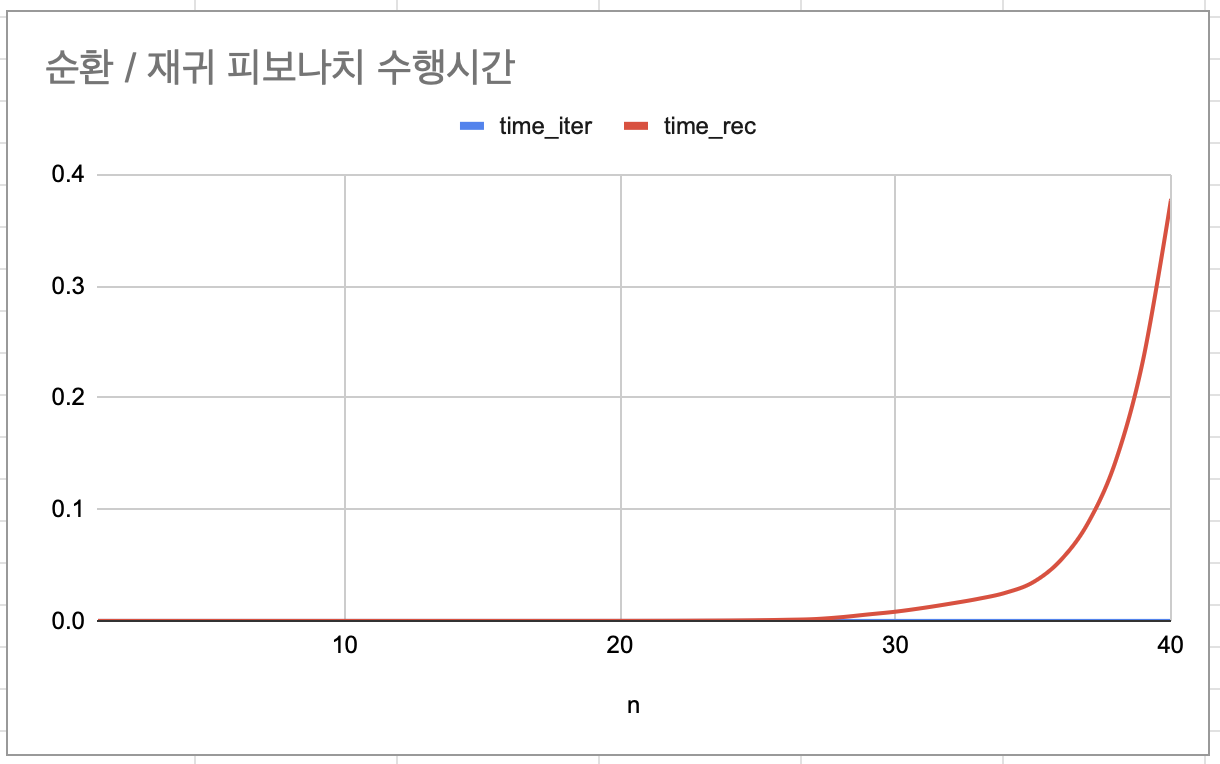
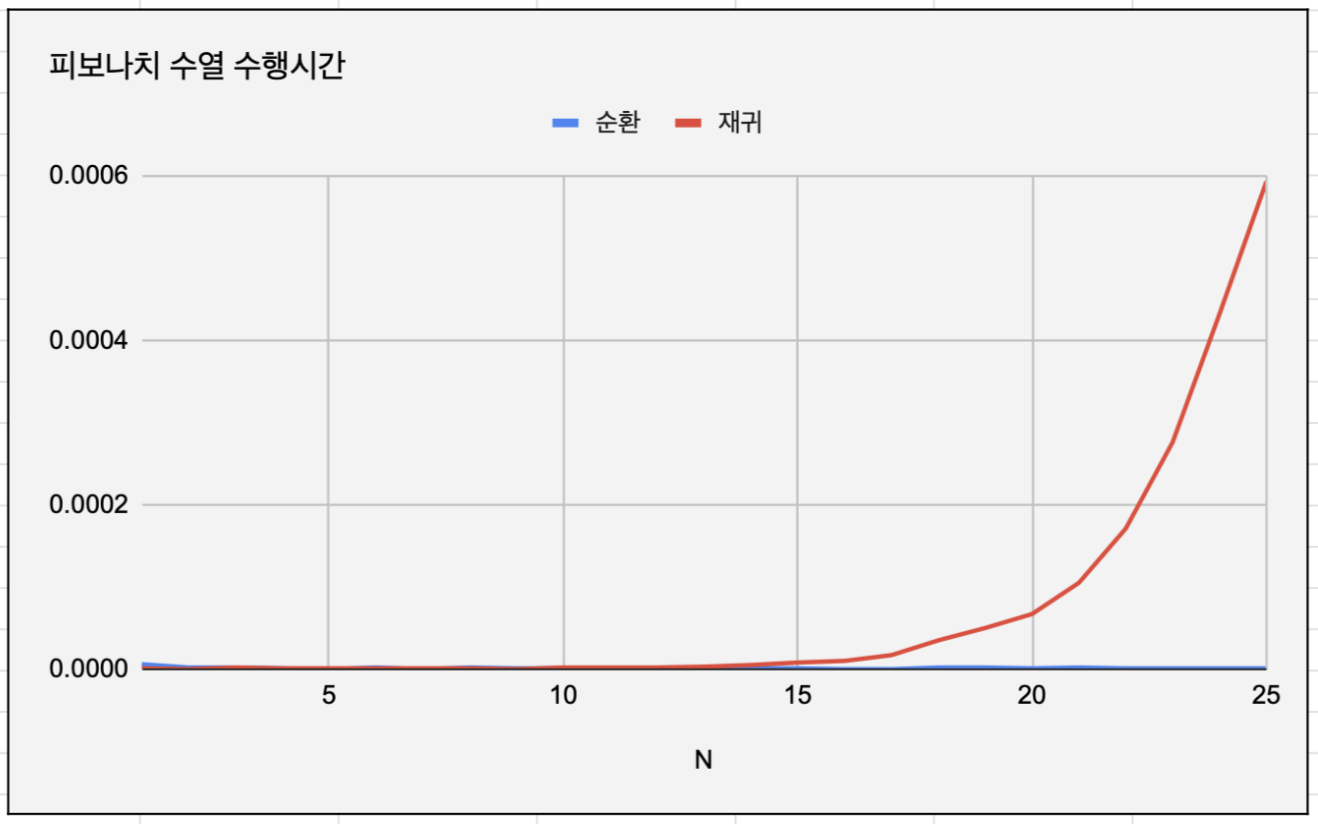
과제(8) 2차

diff --git a/fib/fib.c b/fib/fib.c
@@ -24,7 +24,7 @@ int main() {
     printf("정수(N)을 입력하세요: ");
     scanf("%d", &N);
 
-    printf("n | fib| iter_time | rec_time\n");
+    printf("N | fib_순환| fib_재귀| 순환_수행| 재귀_수행\n");
 
     for (int i = 1; i <= N; i++) {
 
@@ -40,8 +40,8 @@ int main() {
         clock_t end_rec = clock();
         double time_rec = (double)(end_rec - start_rec) / CLOCKS_PER_SEC;
 
-        printf("%d | %lld | %.6f | %.6f\n", i, fib_iter, time_iter, time_rec);
-    }
+        printf("%d |    %lld    |    %lld    | %.6f | %.6f\n", i, fib_iter, fib_rec, time_iter, time_rec);
+    } 
 
     return 0;
 }

diff --git a/fib/fib.md b/fib/fib.md
@@ -1,5 +1,5 @@
 ## 과제(8)
-- 피보나치 수열 순환적 / 재귀적
+- 피보나치 수열 순환적 방법 / 재귀적 방법
 
 ## 정의 
 피보나치 수열을 순환적 방법과 재귀적 방법으로 계산하고, 입력 크기 (N)을 증가시키면서 각 방법의 수행시간을 측정하여 비교한다.
@@ -14,25 +14,69 @@
 ### 2. 재귀적 방법
 - 함수가 자기 자신을 호출하는 방식으로 피보나치 수열을 계산 (단, 동일한 값이 여러 번 계산되는 중복 호출 발생)
 
-### 방법
+```
 입력 값(N)을 1부터 증가시키며 수행시간을 측정
 : clock() 함수를 사용하여 각 방법의 실행 시간을 측정하였다.
+```
 
-## 5. 그래프 이미지
+## 실행 결과 (코드는 .c 파일 제출)
+N 입력 값: 30
+```
+N | fib_순환 | fib_재귀 |  순환_수행  | 재귀_수행
+1 |    1    |    1    | 0.000007 | 0.000001
+2 |    1    |    1    | 0.000001 | 0.000000
+3 |    2    |    2    | 0.000000 | 0.000001
+4 |    3    |    3    | 0.000002 | 0.000001
+5 |    5    |    5    | 0.000000 | 0.000001
+6 |    8    |    8    | 0.000000 | 0.000000
+7 |    13   |    13   | 0.000001 | 0.000000
+8 |    21   |    21   | 0.000001 | 0.000002
+9 |    34   |    34   | 0.000002 | 0.000002
+10 |    55  |    55   | 0.000001 | 0.000002
+11 |    89  |    89   | 0.000001 | 0.000002
+12 |    144   |    144  | 0.000001 | 0.000003
+13 |    233   |    233  | 0.000002 | 0.000004
+14 |    377   |    377  | 0.000000 | 0.000006
+15 |    610   |    610  | 0.000001 | 0.000008
+16 |    987   |    987  | 0.000002 | 0.000014
+17 |    1597   |    1597  | 0.000001 | 0.000022
+18 |    2584   |    2584  | 0.000000 | 0.000034
+19 |    4181   |    4181  | 0.000001 | 0.000054
+20 |    6765   |    6765  | 0.000000 | 0.000085
+21 |    10946  |    10946  | 0.000002 | 0.000137
+22 |    17711  |    17711  | 0.000001 | 0.000217
+23 |    28657  |    28657  | 0.000001 | 0.000351
+24 |    46368  |    46368  | 0.000002 | 0.000567
+25 |    75025  |    75025  | 0.000000 | 0.000717
+26 |    121393  |    121393  | 0.000000 | 0.001160
+27 |    196418  |    196418  | 0.000001 | 0.001600
+28 |    317811  |    317811  | 0.000000 | 0.003923
+29 |    514229  |    514229  | 0.000001 | 0.005682
+30 |    832040  |    832040  | 0.000002 | 0.008026
+
+```
+
+## 그래프 이미지
 <img src="graph.png" width="600">
+순환적 방법은 수행 시간이 매우 작아 그래프에서 거의 0에 가깝게 나타나지만, 
+재귀적 방법은 입력 값이 증가함에 따라 급격히 증가하여 두 방법 간의 성능 차이를 확인할 수 있다.
 
 ## 분석 및 비교
-1. 순환적 방법은 반복문을 사용하기 때문에 입력 크기(N)이 중가함에 따라 수행 시간이 선형적으로 증가하는 모습을 볼 수 있다.
+1. 순환적 방법은 반복문을 사용하기 때문에 입력 크기(N)이 증가함에 따라 수행 시간이 선형적으로 증가하는 모습을 볼 수 있다.
 
 2. 재귀적 방법은 동일한 값을 여러 번 계산하는 중복 호출이 발생하여 수행 시간이 지수적으로 증가하는 모습을 볼 수 있다. 
 -> N이 커질수록 재귀적 방법의 실행시간이 급격히 증가하는 것을 확인 
 
 ```
-순환적 방법은 반복문을 이용하여 이전 두 값을 기반으로 다음 값을 한 번만 계산하는 방식이다. 불필요한 연산이 발생하지 않으며, 입력 크기 (N)이 증가함에 따라 수행시간이 완만하게 증가하는 경향을 보였다. 이는 시간 복잡도가 O(n)이기 때문이며, 효율적인 것을 알 수 있다.
+순환적 방법은 반복문을 사용하여 이전 두 값을 기반으로 다음 값을 한 번만 계산하는 방식이다. 
+따라서 불필요한 중복 연산이 발생하지 않으며, 입력 크기 (N)이 증가함에 따라 수행시간이 선형적으로 증가하는 경향을 보였다. 
+이는 시간 복잡도가 O(n)이기 때문이며, 효율적인 것을 알 수 있다.
 
-반면 재귀적 방법은 함수가 자기 자신을 호출하는 구조로, 동일한 값을 여러 번 계산하는 중복 호출이 발생하여 이미 계산된 값이 다시 호출되는 중복연산이 발생한다. 이러한 중복 호출로 인해 전체 함수 호출 횟수가 급격히 증가하며, 입력 값(N)이 커질수록 수행 시간이 빠르게 증가하는 모습을 확인할 수 있었다. 이는 재귀적 방법의 시간복잡도가 O(2^n)이기 때문이며, 비효율적인 것을 알 수 있다. 
+재귀적 방법은 함수가 자기 자신을 호출하는 구조로, 동일한 값을 여러 번 계산하는 중복 호출이 발생한다. 
+이로 인해 전체 함수 호출 횟수가 급격히 증가하며, 입력 값(N)이 커질수록 수행 시간이 지수적으로 증가하는 모습을 보인다. 
+이는 시간 복잡도 O(2ⁿ)에 해당하며, 비효율적인 것을 알 수 있다.
 
-두 방법을 비교해보면, 작은 입력 값에서는 수행시간 차이가 크지 않지만 입력 값이 중가할수록 재귀적 방법이 비효율적이라는 것을 알 수 있다. 
+두 방법을 비교해보면, 입력 값이 작을 때는 수행 시간의 차이가 크지 않지만 입력 값이 증가할수록 재귀적 방법이 비효율적이라는 것을 알 수 있다. 
 실제로 수행 결과, 일정 값 이상 (N)에서는 재귀적 방법의 실행시간이 급격히 증가하여 사용하기 어려웠다.
 
 따라서 중복 계산이 많은 피보나치 수열에서는 재귀적 방법보다 순환적 방법이 더 효율적이라는 것을 알 수 있다.
